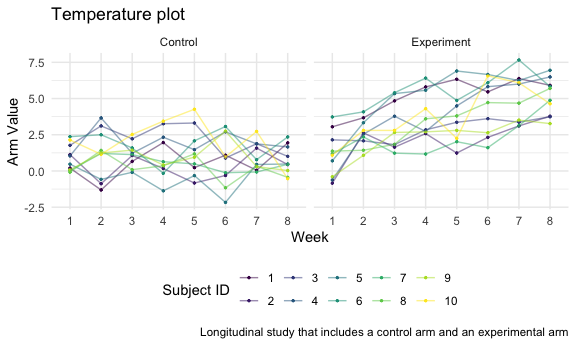
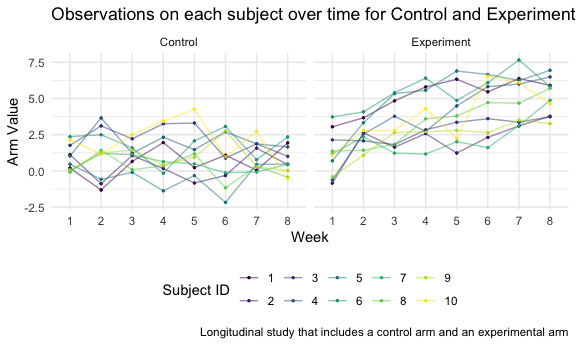
Finalizing comments for each problem

Changed region(s): [[0.0938, 0.0, 1.0, 0.058]]

diff --git a/p8105_hw5_tk2886.md b/p8105_hw5_tk2886.md
@@ -74,8 +74,6 @@ homicide_df %>%
     ## 10 Cincinnati, OH    260
     ## # … with 40 more rows
 
-### 
-
 # Problem 2
 
 ### Using the list.files function to gather all file names in the specified directory
@@ -105,206 +103,6 @@ merging_data =
   map_df(file_name_list, csv_iteration) 
 ```
 
-    ## Rows: 1 Columns: 8
-
-    ## ── Column specification ────────────────────────────────────────────────────────
-    ## Delimiter: ","
-    ## dbl (8): week_1, week_2, week_3, week_4, week_5, week_6, week_7, week_8
-
-    ## 
-    ## ℹ Use `spec()` to retrieve the full column specification for this data.
-    ## ℹ Specify the column types or set `show_col_types = FALSE` to quiet this message.
-
-    ## Rows: 1 Columns: 8
-
-    ## ── Column specification ────────────────────────────────────────────────────────
-    ## Delimiter: ","
-    ## dbl (8): week_1, week_2, week_3, week_4, week_5, week_6, week_7, week_8
-
-    ## 
-    ## ℹ Use `spec()` to retrieve the full column specification for this data.
-    ## ℹ Specify the column types or set `show_col_types = FALSE` to quiet this message.
-
-    ## Rows: 1 Columns: 8
-
-    ## ── Column specification ────────────────────────────────────────────────────────
-    ## Delimiter: ","
-    ## dbl (8): week_1, week_2, week_3, week_4, week_5, week_6, week_7, week_8
-
-    ## 
-    ## ℹ Use `spec()` to retrieve the full column specification for this data.
-    ## ℹ Specify the column types or set `show_col_types = FALSE` to quiet this message.
-
-    ## Rows: 1 Columns: 8
-
-    ## ── Column specification ────────────────────────────────────────────────────────
-    ## Delimiter: ","
-    ## dbl (8): week_1, week_2, week_3, week_4, week_5, week_6, week_7, week_8
-
-    ## 
-    ## ℹ Use `spec()` to retrieve the full column specification for this data.
-    ## ℹ Specify the column types or set `show_col_types = FALSE` to quiet this message.
-
-    ## Rows: 1 Columns: 8
-
-    ## ── Column specification ────────────────────────────────────────────────────────
-    ## Delimiter: ","
-    ## dbl (8): week_1, week_2, week_3, week_4, week_5, week_6, week_7, week_8
-
-    ## 
-    ## ℹ Use `spec()` to retrieve the full column specification for this data.
-    ## ℹ Specify the column types or set `show_col_types = FALSE` to quiet this message.
-
-    ## Rows: 1 Columns: 8
-
-    ## ── Column specification ────────────────────────────────────────────────────────
-    ## Delimiter: ","
-    ## dbl (8): week_1, week_2, week_3, week_4, week_5, week_6, week_7, week_8
-
-    ## 
-    ## ℹ Use `spec()` to retrieve the full column specification for this data.
-    ## ℹ Specify the column types or set `show_col_types = FALSE` to quiet this message.
-
-    ## Rows: 1 Columns: 8
-
-    ## ── Column specification ────────────────────────────────────────────────────────
-    ## Delimiter: ","
-    ## dbl (8): week_1, week_2, week_3, week_4, week_5, week_6, week_7, week_8
-
-    ## 
-    ## ℹ Use `spec()` to retrieve the full column specification for this data.
-    ## ℹ Specify the column types or set `show_col_types = FALSE` to quiet this message.
-
-    ## Rows: 1 Columns: 8
-
-    ## ── Column specification ────────────────────────────────────────────────────────
-    ## Delimiter: ","
-    ## dbl (8): week_1, week_2, week_3, week_4, week_5, week_6, week_7, week_8
-
-    ## 
-    ## ℹ Use `spec()` to retrieve the full column specification for this data.
-    ## ℹ Specify the column types or set `show_col_types = FALSE` to quiet this message.
-
-    ## Rows: 1 Columns: 8
-
-    ## ── Column specification ────────────────────────────────────────────────────────
-    ## Delimiter: ","
-    ## dbl (8): week_1, week_2, week_3, week_4, week_5, week_6, week_7, week_8
-
-    ## 
-    ## ℹ Use `spec()` to retrieve the full column specification for this data.
-    ## ℹ Specify the column types or set `show_col_types = FALSE` to quiet this message.
-
-    ## Rows: 1 Columns: 8
-
-    ## ── Column specification ────────────────────────────────────────────────────────
-    ## Delimiter: ","
-    ## dbl (8): week_1, week_2, week_3, week_4, week_5, week_6, week_7, week_8
-
-    ## 
-    ## ℹ Use `spec()` to retrieve the full column specification for this data.
-    ## ℹ Specify the column types or set `show_col_types = FALSE` to quiet this message.
-
-    ## Rows: 1 Columns: 8
-
-    ## ── Column specification ────────────────────────────────────────────────────────
-    ## Delimiter: ","
-    ## dbl (8): week_1, week_2, week_3, week_4, week_5, week_6, week_7, week_8
-
-    ## 
-    ## ℹ Use `spec()` to retrieve the full column specification for this data.
-    ## ℹ Specify the column types or set `show_col_types = FALSE` to quiet this message.
-
-    ## Rows: 1 Columns: 8
-
-    ## ── Column specification ────────────────────────────────────────────────────────
-    ## Delimiter: ","
-    ## dbl (8): week_1, week_2, week_3, week_4, week_5, week_6, week_7, week_8
-
-    ## 
-    ## ℹ Use `spec()` to retrieve the full column specification for this data.
-    ## ℹ Specify the column types or set `show_col_types = FALSE` to quiet this message.
-
-    ## Rows: 1 Columns: 8
-
-    ## ── Column specification ────────────────────────────────────────────────────────
-    ## Delimiter: ","
-    ## dbl (8): week_1, week_2, week_3, week_4, week_5, week_6, week_7, week_8
-
-    ## 
-    ## ℹ Use `spec()` to retrieve the full column specification for this data.
-    ## ℹ Specify the column types or set `show_col_types = FALSE` to quiet this message.
-
-    ## Rows: 1 Columns: 8
-
-    ## ── Column specification ────────────────────────────────────────────────────────
-    ## Delimiter: ","
-    ## dbl (8): week_1, week_2, week_3, week_4, week_5, week_6, week_7, week_8
-
-    ## 
-    ## ℹ Use `spec()` to retrieve the full column specification for this data.
-    ## ℹ Specify the column types or set `show_col_types = FALSE` to quiet this message.
-
-    ## Rows: 1 Columns: 8
-
-    ## ── Column specification ────────────────────────────────────────────────────────
-    ## Delimiter: ","
-    ## dbl (8): week_1, week_2, week_3, week_4, week_5, week_6, week_7, week_8
-
-    ## 
-    ## ℹ Use `spec()` to retrieve the full column specification for this data.
-    ## ℹ Specify the column types or set `show_col_types = FALSE` to quiet this message.
-
-    ## Rows: 1 Columns: 8
-
-    ## ── Column specification ────────────────────────────────────────────────────────
-    ## Delimiter: ","
-    ## dbl (8): week_1, week_2, week_3, week_4, week_5, week_6, week_7, week_8
-
-    ## 
-    ## ℹ Use `spec()` to retrieve the full column specification for this data.
-    ## ℹ Specify the column types or set `show_col_types = FALSE` to quiet this message.
-
-    ## Rows: 1 Columns: 8
-
-    ## ── Column specification ────────────────────────────────────────────────────────
-    ## Delimiter: ","
-    ## dbl (8): week_1, week_2, week_3, week_4, week_5, week_6, week_7, week_8
-
-    ## 
-    ## ℹ Use `spec()` to retrieve the full column specification for this data.
-    ## ℹ Specify the column types or set `show_col_types = FALSE` to quiet this message.
-
-    ## Rows: 1 Columns: 8
-
-    ## ── Column specification ────────────────────────────────────────────────────────
-    ## Delimiter: ","
-    ## dbl (8): week_1, week_2, week_3, week_4, week_5, week_6, week_7, week_8
-
-    ## 
-    ## ℹ Use `spec()` to retrieve the full column specification for this data.
-    ## ℹ Specify the column types or set `show_col_types = FALSE` to quiet this message.
-
-    ## Rows: 1 Columns: 8
-
-    ## ── Column specification ────────────────────────────────────────────────────────
-    ## Delimiter: ","
-    ## dbl (8): week_1, week_2, week_3, week_4, week_5, week_6, week_7, week_8
-
-    ## 
-    ## ℹ Use `spec()` to retrieve the full column specification for this data.
-    ## ℹ Specify the column types or set `show_col_types = FALSE` to quiet this message.
-
-    ## Rows: 1 Columns: 8
-
-    ## ── Column specification ────────────────────────────────────────────────────────
-    ## Delimiter: ","
-    ## dbl (8): week_1, week_2, week_3, week_4, week_5, week_6, week_7, week_8
-
-    ## 
-    ## ℹ Use `spec()` to retrieve the full column specification for this data.
-    ## ℹ Specify the column types or set `show_col_types = FALSE` to quiet this message.
-
 ### Tidying the data
 
 ``` r
@@ -333,7 +131,7 @@ arm_dfc %>%
   geom_line(aes(group = subject_id),  alpha = .5) + 
   facet_grid(~experiment_group) +
   labs(
-    title = "Temperature plot",
+    title = "Observations on each subject over time for Control and Experiment Group",
     x = "Week",
     y = "Arm Value",
     caption = "Longitudinal study that includes a control arm and an experimental arm") +
@@ -345,7 +143,9 @@ arm_dfc %>%
 
 <img src="p8105_hw5_tk2886_files/figure-gfm/unnamed-chunk-11-1.png" width="90%" />
 
-# Problem 3 - Code was provided by professor
+# Problem 3
+
+### Code was provided by professor
 
 ``` r
 set.seed(10)
@@ -358,7 +158,6 @@ iris_with_missing = iris %>%
 ### Creating a function
 
 ``` r
-#Function first checks if the argument that is passed in is a numeric or character and if it is true, then we go to the next conditional statement block or else the function will stop and display an error message. 
 iris_function = function(x) {
   if (!is.numeric(x) & !is.character(x)) {
     stop("Argument should be numeric or character")
@@ -368,6 +167,8 @@ iris_function = function(x) {
    replace_na(x, "virginica")
  }}
 ```
+
+#### Function first checks if the argument that is passed in is a numeric or character and if it is true, then we go to the next conditional statement block or else the function will stop and display an error message.
 
 ``` r
 map_dfr(iris_with_missing, iris_function)
@@ -387,3 +188,5 @@ map_dfr(iris_with_missing, iris_function)
     ##  9         4.4          2.9         1.4         0.2  setosa 
     ## 10         4.9          3.1         3.77        0.1  setosa 
     ## # … with 140 more rows
+
+#### I used map\_dfr because this function directly binds the rows when map output is a dataframe or a named vector.
